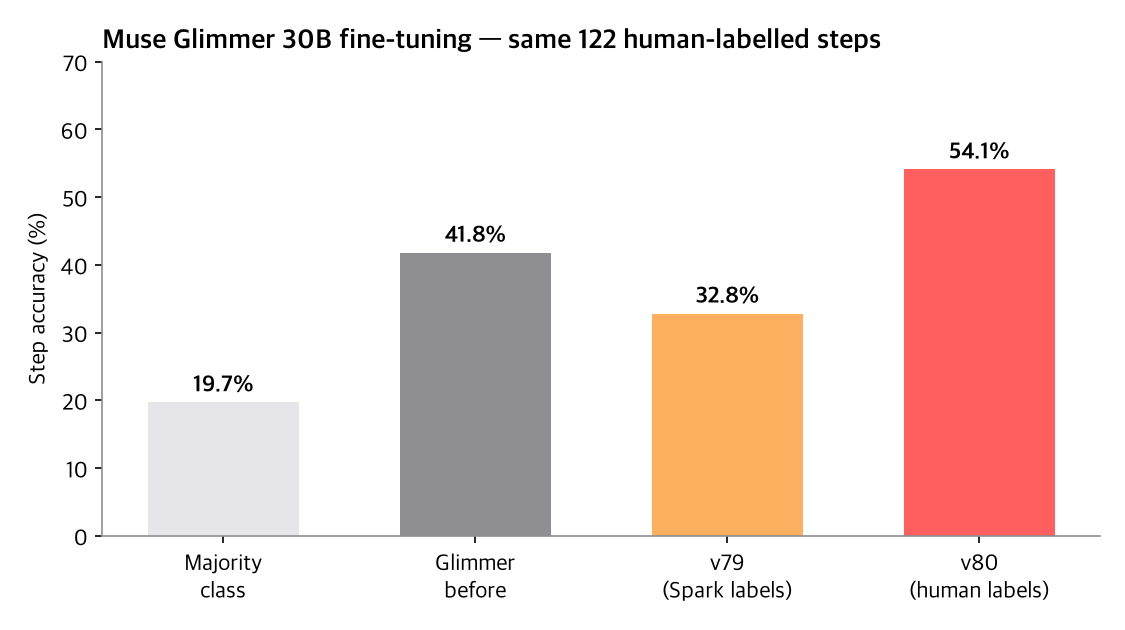
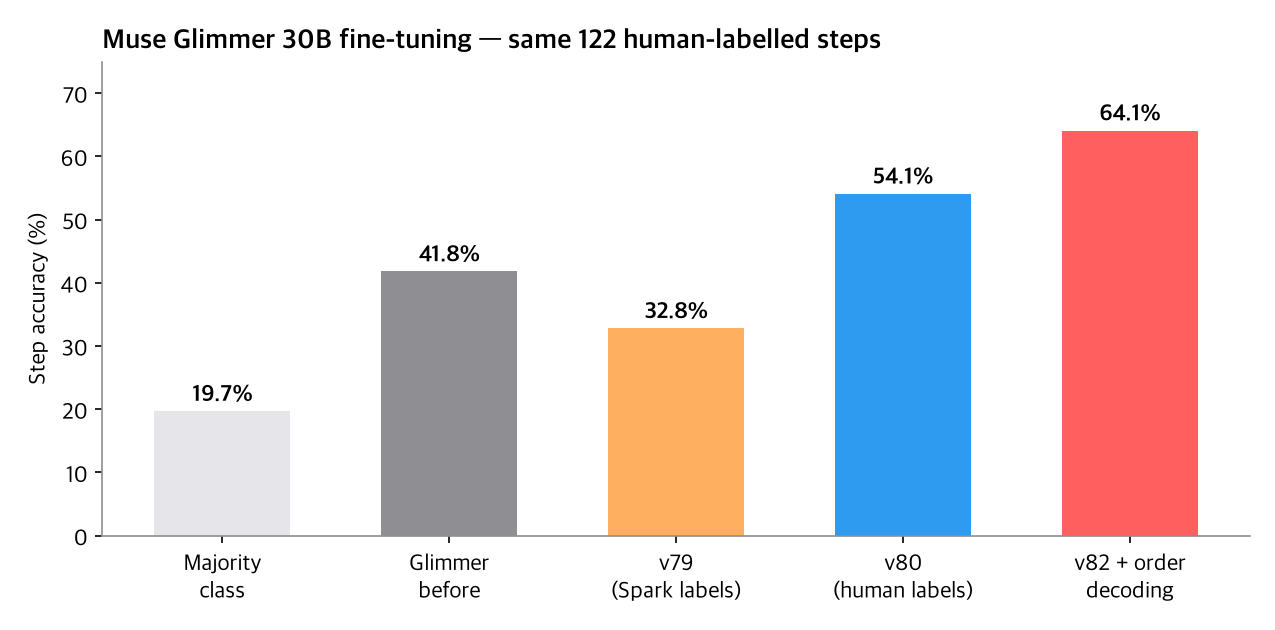
구매 기업 웹: 말로 의뢰하면 Muse Spark 답이 온 뒤에 미션이 카드로 생김 (새 카드는 잠깐 강조). 기다리는 동안 말풍선에 돌아가는 표시와 흐른 초, 미션 자리에 빈 카드 — 화면이 멈춘 것처럼 보이던 것. 모델 없이 맞춘 초안은 Spark 가 실패할 때만 보여 줌. 성능: Glimmer v82 + 미션별 순서 디코딩 64.1% (범위 60.7–67.2%, docs/label_eval.md) 를 README 5개 언어 표·그래프(docs/perf/glimmer.*)와 운영자 성능 탭에 더함

Changed region(s): [[0.0, 0.0302, 0.9644, 0.9651], [0.8089, 0.8746, 0.9333, 0.9651]]

diff --git a/web/index.html b/web/index.html
@@ -85,6 +85,17 @@
   .chat textarea { flex: 1; resize: vertical; }
   .mis { border: 1px solid var(--line); border-radius: 14px; padding: 12px 14px; margin-top: 10px; }
   .mis .prims { margin-top: 6px; }
+  /* 미션 카드: Muse Spark 답이 온 뒤에 생기고, 새로 생긴 카드는 잠깐 강조 */
+  .mcards { display: grid; grid-template-columns: repeat(auto-fill, minmax(230px, 1fr)); gap: 10px; margin-top: 10px; }
+  .mcards .mis { margin-top: 0; background: #fff; box-shadow: 0 2px 10px rgba(0,0,0,.05); }
+  .mcards .mis .num { display: inline-grid; place-items: center; width: 22px; height: 22px; border-radius: 50%; background: var(--primary-soft); color: var(--primary-dark); font-size: 12px; font-weight: 800; margin-right: 6px; }
+  .mcards .mis.new { animation: mpop .55s cubic-bezier(.2,.9,.3,1.3) both, mglow 2.6s ease-out both; }
+  @keyframes mpop { from { opacity: 0; transform: translateY(14px) scale(.96); } to { opacity: 1; transform: none; } }
+  @keyframes mglow { 0%, 45% { border-color: var(--primary); box-shadow: 0 0 0 4px var(--primary-soft); } 100% { border-color: var(--line); } }
+  .skel { height: 92px; border-radius: 14px; background: linear-gradient(90deg, var(--bg) 25%, #fff 50%, var(--bg) 75%); background-size: 300% 100%; animation: shimmer 1.2s linear infinite; border: 1px solid var(--line); }
+  @keyframes shimmer { from { background-position: 100% 0; } to { background-position: -200% 0; } }
+  .spin { display: inline-block; width: 14px; height: 14px; border: 2px solid var(--primary-soft); border-top-color: var(--primary); border-radius: 50%; animation: spin .8s linear infinite; vertical-align: -2px; margin-right: 8px; }
+  @keyframes spin { to { transform: rotate(360deg); } }
   .tags { display: flex; flex-wrap: wrap; gap: 6px; margin-top: 8px; }
   .tags span { font-size: 12px; background: var(--bg); border: 1px solid var(--line); border-radius: 99px; padding: 3px 10px; }
   @media (max-width: 960px) { .ask { grid-template-columns: 1fr; } }
@@ -791,21 +802,27 @@ const post = (u, body) => fetch(u, {method: "POST", headers: {"Content-Type": "a
 $("#askBtn").onclick = async () => {
   const tx = $("#askText").value.trim(); if (!tx) return;
   $("#askText").value = ""; CHAT.push({role: "user", content: tx}); bubble(tx, true);
-  const my = ++SEQ;
-  const wait = bubble(t("chat.matching"), false);
-  try {                                  // ① 바로 (모델 없이)
+  const my = ++SEQ, t0 = Date.now();
+  const wait = bubble("", false);
+  // 기다리는 동안: 말풍선에 돌아가는 표시 + 흐른 초, 미션 자리에 빈 카드 (멈춘 화면처럼 보이지 않게)
+  const tick = () => { wait.innerHTML = `<span class="spin"></span>${esc(t("chat.designing"))} ${Math.round((Date.now() - t0) / 1000)}s`; };
+  tick(); const timer = setInterval(tick, 500);
+  $("#planBox").innerHTML = `<h3 style="margin-top:0"><span class="spin"></span>${esc(t("chat.designing"))}</h3><div class="mcards"><div class="skel"></div><div class="skel"></div><div class="skel"></div><div class="skel"></div></div>`;
+  let draft = null;
+  const done = () => clearInterval(timer);
+  try {                                  // ① 바로 (모델 없이) — Muse Spark 가 실패할 때만 보여 줄 초안
     const r = await post("/api/market/request/instant", {messages: CHAT, lang: LANG});
-    if (r.ok) { const j = await r.json(); if (my === SEQ) { PLAN = j.plan; CHOICE = j.choice; showPlan(); }
-      wait.textContent = (j.plan.missions.length ? t("chat.draft") : t("chat.designing")); }
+    if (r.ok) draft = await r.json();
   } catch (e) {}
-  try {                                  // ② Muse Spark (약 10초)
+  try {                                  // ② Muse Spark (약 10초) — 답이 오면 미션 카드가 생긴다
     const r = await post("/api/market/request/chat", {messages: CHAT, lang: LANG});
-    const j = await r.json();
-    if (!r.ok) { wait.textContent = j.detail || t("chat.retry"); return; }
+    const j = await r.json(); done();
+    if (!r.ok) { wait.textContent = j.detail || t("chat.retry"); if (draft && my === SEQ) { PLAN = draft.plan; CHOICE = draft.choice; showPlan(); } return; }
     const q = (j.plan.questions || []).length ? "\n\n" + j.plan.questions.map(x => "· " + x).join("\n") : "";
     wait.textContent = j.reply + q; CHAT.push({role: "assistant", content: j.reply + q});
-    if (my === SEQ) { PLAN = j.plan; CHOICE = j.choice; showPlan(); }
-  } catch (e) { wait.textContent = PLAN ? t("chat.lostDraft") : t("chat.lost"); }
+    if (my === SEQ) { PLAN = j.plan; CHOICE = j.choice; showPlan(true); }
+  } catch (e) { done(); wait.textContent = draft ? t("chat.lostDraft") : t("chat.lost");
+    if (draft && my === SEQ) { PLAN = draft.plan; CHOICE = draft.choice; showPlan(); } }
 };
 $("#askText").onkeydown = e => { if (e.key === "Enter" && !e.shiftKey && !e.isComposing) { e.preventDefault(); $("#askBtn").click(); } };
 const AGES = ["19~29세", "30대", "40대", "50대", "60대 이상"];   // API 값 (보낼 때는 그대로)
@@ -817,7 +834,7 @@ function planMission(m) {
   if (c) return {...m, title: c.title, guide: c.guide};
   return {...m, title: hasHangul(m.title) && m.title_en ? m.title_en : m.title};
 }
-function showPlan() {
+function showPlan(fresh) {
   const p = PLAN, c = CHOICE; if (!p || !c) return;
   if (!PICK || !c.options[PICK]) PICK = c.recommended;
   const ages = p.eligibility.age_bands.length === AGES.length ? t("age.any") : p.eligibility.age_bands.map(ageLabel).join(" · ");
@@ -840,10 +857,10 @@ function showPlan() {
     ${p.domain || p.robot_use ? `<div class="note">${esc(p.domain)} · ${esc(p.robot_use)}</div>` : ""}
     <div class="tags"><span>${esc(ages)}</span><span>${esc(t("gen." + p.eligibility.gender) === "gen." + p.eligibility.gender ? "" : t("gen." + p.eligibility.gender))}</span>${sens.map(x => `<span>${esc(x)}</span>`).join("")}
       ${c.rarity !== "normal" ? `<span style="background:var(--accent-soft)">${esc(t("rare." + c.rarity))}${c.rare_reason ? " · " + esc(c.rare_reason.replace(/60대 이상|19~29세|30대|40대|50대/g, ageLabel)) : ""} ×${c.rarity_mult}</span>` : ""}</div>
-    ${ms.map(m => `<div class="mis"><b>${esc(m.title)}</b>${m.existing || m.id ? ` <span class="note">${esc(t("stockMission"))}</span>` : ""}<div class="note">${esc(m.guide)}</div>
+    <div class="mcards">${ms.map((m, i) => `<div class="mis${fresh ? " new" : ""}" style="animation-delay:${fresh ? i * 0.18 : 0}s"><span class="num">${i + 1}</span><b>${esc(m.title)}</b>${m.existing || m.id ? ` <span class="note">${esc(t("stockMission"))}</span>` : ""}<div class="note">${esc(m.guide)}</div>
       ${m.primitives.length ? `<div class="prims">${m.primitives.map(esc).join(" → ")}</div>` : ""}
-      ${(m.situations || []).length && (LANG === "ko" || !m.situations.some(hasHangul)) ? `<div class="tags">${m.situations.slice(0, 6).map(x => `<span>${esc(x)}</span>`).join("")}</div>` : ""}</div>`).join("")
-      || `<div class="note">${esc(t("noMatch"))}</div>`}
+      ${(m.situations || []).length && (LANG === "ko" || !m.situations.some(hasHangul)) ? `<div class="tags">${m.situations.slice(0, 4).map(x => `<span>${esc(x)}</span>`).join("")}</div>` : ""}</div>`).join("")
+      || `<div class="note">${esc(t("noMatch"))}</div>`}</div>
     <h3 style="margin:16px 0 6px">${esc(t("how"))}</h3>
     ${c.budget_krw ? `<div class="note">${esc(t("budget", {b: won(c.budget_krw)}))}</div>` : ""}
     <div class="note" style="margin-bottom:6px">${c.why && ("why." + c.why) in I18N.ko ? esc(t("why." + c.why)) : ""}</div>

diff --git a/web/admin.html b/web/admin.html
@@ -377,7 +377,7 @@ function renderPerf() {
   const kp = [
     [tx("라벨 장면 정확도", "Label frame accuracy"), ep.base && ep.ensemble ? `${pct(ep.base.frame_acc)} → ${pct(ep.ensemble.frame_acc)}` : "-", tx("사람 정답 · EPIC 새 8구간", "vs human truth · EPIC held-out")],
     [tx("경계 오차", "Boundary error"), ep.base ? `${ep.base.boundary_ms_median} → ${(ep["chunk20_slow+pick"] || {}).boundary_ms_median} ms` : "-", tx("중앙값", "median")],
-    ["Muse Glimmer 30B", g.length ? `${pct(g[1])} → ${pct(g[3])}` : "-", tx("학습 전 → v80 (사람 정답 학습)", "base → v80 fine-tuned on human labels")],
+    ["Muse Glimmer 30B", g.length ? `${pct(g[1])} → ${pct(g[g.length - 1])}` : "-", g.length > 4 ? tx("학습 전 → v82 + 순서 디코딩 (사람 정답 학습)", "base → v82 + order decoding (human labels)") : tx("학습 전 → v80 (사람 정답 학습)", "base → v80 fine-tuned on human labels")],
     [tx("두 모델 일치 (최근 5편)", "Spark 1.3 ↔ Open (last 5)"), pct(S.agreement_last5), tx(`처음 5편 ${pct(S.agreement_first5)} · 전체 ${pct(S.agreement_all)}`, `first 5 ${pct(S.agreement_first5)} · all ${pct(S.agreement_all)}`)],
   ];
   set("perf-kpis", kp.map(([k, b, e]) => `<div class="card kpi"><span>${k}</span><b>${b}</b><em>${e}</em></div>`).join(""));
@@ -398,7 +398,8 @@ function renderPerf() {
   set("perf-m-glim", tx("같은 평가 122단계 (사람 정답, 학습에 안 쓴 녹화 8편). Fireworks LoRA r16.", "Same 122 steps (human labels, 8 held-out recordings). Fireworks LoRA r16."));
   const GT = P.glimmer.trainings || [];
   set("perf-glim", (g.length ? hbars([[tx("가장 많은 동작만", "majority class"), +(100 * g[0]).toFixed(1), "#E5E5EA"], [tx("학습 전", "base (no training)"), +(100 * g[1]).toFixed(1), "#8E8E93"],
-      [tx("v79 · Spark 라벨로", "v79 · trained on Spark labels"), +(100 * g[2]).toFixed(1), "#FFAF5F"], [tx("v80 · 사람 정답으로", "v80 · trained on human labels"), +(100 * g[3]).toFixed(1), "#FF5F5F"]], 70, "%") : "")
+      [tx("v79 · Spark 라벨로", "v79 · trained on Spark labels"), +(100 * g[2]).toFixed(1), "#FFAF5F"], [tx("v80 · 사람 정답으로", "v80 · trained on human labels"), +(100 * g[3]).toFixed(1), g.length > 4 ? "#34C778" : "#FF5F5F"]]
+      .concat(g.length > 4 ? [[tx("v82 · + 미션별 순서 디코딩", "v82 · + per-mission order decoding"), +(100 * g[4]).toFixed(1), "#FF5F5F"]] : []), 75, "%") : "")
     + `<table style="margin-top:8px;font-size:12px"><tr><th>${tx("학습", "Run")}</th><th>${tx("데이터", "Data")}</th><th>epoch</th><th>${tx("상태", "State")}</th><th>${tx("끝", "Finished")}</th></tr>
       ${GT.slice().reverse().map(t => { const d = (P.glimmer.datasets || []).find(x => x.version === t.dataset) || {};
         return `<tr><td>${esc(String(t.output_model || "").split("/").pop())}</td><td>v${t.dataset} · ${d.train_steps ?? "-"} ${tx("단계", "steps")}</td><td>${t.epochs}</td>

diff --git a/scripts/perf_report.py b/scripts/perf_report.py
@@ -44,7 +44,7 @@ T = {"en": {"acc": "Frame accuracy (%)", "bnd": "Boundary error, median (ms)",
             "conf": "Where labels go wrong (0.1 s frames, row = human truth)", "first": "First: 60 s in one call",
             "now": "Now: 5-run fusion", "pred": "Muse Spark label", "truth": "Human truth",
             "g": "Muse Glimmer 30B fine-tuning — same 122 human-labelled steps",
-            "gacc": "Step accuracy (%)", "gl": ["Majority\nclass", "Glimmer\nbefore", "v79\n(Spark labels)", "v80\n(human labels)"],
+            "gacc": "Step accuracy (%)", "gl": ["Majority\nclass", "Glimmer\nbefore", "v79\n(Spark labels)", "v80\n(human labels)", "v82 + order\ndecoding"],
             "agree": "Spark 1.3 ↔ Spark Open agreement per clip", "clip": "Clip (processing order)", "last5": "last-5 mean",
             "time": "Processing time per clip (s)", "reid": "Frames still 'same person' after face swap (%)",
             "mon": "Live service monitoring (operator page shows the same)", "warn": "alert"},
@@ -53,7 +53,7 @@ T = {"en": {"acc": "Frame accuracy (%)", "bnd": "Boundary error, median (ms)",
             "conf": "어디서 틀리나 (0.1초 장면, 행 = 사람 정답)", "first": "처음: 60초 한 번에",
             "now": "지금: 다섯 벌 합치기", "pred": "Muse Spark 라벨", "truth": "사람 정답",
             "g": "Muse Glimmer 30B 학습 — 같은 평가 122단계 (사람 정답)",
-            "gacc": "단계 정확도 (%)", "gl": ["가장 많은\n동작만", "학습 전", "v79\n(Spark 라벨)", "v80\n(사람 정답)"],
+            "gacc": "단계 정확도 (%)", "gl": ["가장 많은\n동작만", "학습 전", "v79\n(Spark 라벨)", "v80\n(사람 정답)", "v82 + 순서\n디코딩"],
             "agree": "녹화마다 Spark 1.3 ↔ Spark Open 일치율", "clip": "녹화 (처리 순서)", "last5": "최근 5편 평균",
             "time": "녹화 하나 처리 시간 (초)", "reid": "치환 뒤에도 '같은 사람'인 얼굴 장면 (%)",
             "mon": "서비스 모니터링 (운영자 화면과 같은 값)", "warn": "경고"}}
@@ -107,7 +107,8 @@ def glimmer() -> list:
     reg = json.loads((ROOT / "data/evolve/registry.json").read_text())
     pre = [e for e in reg["evals"] if e.get("dataset") == 80 and e.get("steps") == 122]
     base, before = (pre[-1]["baseline_accuracy"], pre[-1]["accuracy"]) if pre else (0.197, 0.418)
-    return [base, before, 0.328, 0.541]
+    # v82e3 + 미션별 순서 디코딩: 순서 무게 다섯 개 평균 64.1% (범위 60.7–67.2%, docs/label_eval.md 'v81–v83')
+    return [base, before, 0.328, 0.541, 0.641]
 
 
 def plot_all(b: dict, live: dict, lang: str) -> None:
@@ -154,11 +155,11 @@ def plot_all(b: dict, live: dict, lang: str) -> None:
 
     # ③ Glimmer
     g = b["glimmer"]
-    fig, ax = plt.subplots(figsize=(7.5, 4.2))
-    ax.bar(range(4), [100 * x for x in g], color=[LINE, MUTED, WARN, ACC], width=.6)
+    fig, ax = plt.subplots(figsize=(8.5, 4.2))
+    ax.bar(range(len(g)), [100 * x for x in g], color=[LINE, MUTED, WARN, OK, ACC][:len(g)], width=.6)
     for i, x in enumerate(g):
         ax.text(i, 100 * x + 1.5, f"{100 * x:.1f}%", ha="center", fontweight="bold")
-    ax.set_xticks(range(4), t["gl"]); ax.set_ylim(0, 70); ax.set_ylabel(t["gacc"]); ax.set_title(t["g"], loc="left")
+    ax.set_xticks(range(len(g)), t["gl"][:len(g)]); ax.set_ylim(0, 75); ax.set_ylabel(t["gacc"]); ax.set_title(t["g"], loc="left")
     fig.tight_layout(); fig.savefig(OUT / f"glimmer.{lang}.png"); plt.close(fig)
 
     # ④ 서비스 모니터링 세 줄

diff --git a/README.ko.md b/README.ko.md
@@ -44,7 +44,7 @@ API 호출마다 비용을 장부(`data/api_ledger.jsonl`)에 적고, 한도를 
 |---|---|---|
 | 단계 라벨 장면 정확도 (Muse Spark 1.3) | **35.6% → 54.3%** | EPIC-KITCHENS-100 새 8구간, 사람 정답 271단계 |
 | 단계 경계 오차 (중앙값) | **430 → 182ms** | 같음 |
-| Muse Glimmer 30B 단계 정확도 (LoRA, Fireworks) | **41.8% → 54.1%** (v80, 사람 정답으로 학습 · Spark 라벨로 학습한 v79 는 32.8%) | 학습에 안 쓴 녹화 8편의 사람 정답 122단계 |
+| Muse Glimmer 30B 단계 정확도 (LoRA, Fireworks) | **41.8% → 54.1% → 64.1%** (v80 사람 정답으로 학습 · v82 + 미션별 순서 디코딩, 범위 60.7–67.2% · Spark 라벨로 학습한 v79 는 32.8%) | 학습에 안 쓴 녹화 8편의 사람 정답 122단계 |
 | 워치 ↔ 영상 시간 오차 | **24.7 → 3.7ms** (기준 10ms) | 폰 + 워치 녹화 37편 |
 | 녹화 하나 얼굴 치환 시간 | **636 → 84초** (7.5배) | `docs/privacy_eval.md` |
 | SAM 3.1 비용, 녹화 4편 | **$2.92 → $0.27** (−91%) | 실제 녹화 4편 |

diff --git a/README.md b/README.md
@@ -44,7 +44,7 @@ The operator page has a **Performance** tab with the same charts plus live monit
 |---|---|---|
 | Step-label frame accuracy (Muse Spark 1.3) | **35.6% → 54.3%** | EPIC-KITCHENS-100, 8 held-out clips, 271 human-labelled steps |
 | Step boundary error (median) | **430 → 182 ms** | same |
-| Muse Glimmer 30B step accuracy (LoRA, Fireworks) | **41.8% → 54.1%** (v80, trained on our human labels; v79 trained on Spark labels: 32.8%) | 122 human-labelled steps from 8 held-out recordings |
+| Muse Glimmer 30B step accuracy (LoRA, Fireworks) | **41.8% → 54.1% → 64.1%** (v80 trained on our human labels; v82 + per-mission order decoding, range 60.7–67.2%; v79 trained on Spark labels: 32.8%) | 122 human-labelled steps from 8 held-out recordings |
 | Watch ↔ video sync error | **24.7 → 3.7 ms** (target < 10 ms) | 37 phone + watch recordings |
 | Face swap time per recording | **636 → 84 s** (7.5×) | `docs/privacy_eval.md` |
 | SAM 3.1 cost, 4 recordings | **$2.92 → $0.27** (−91%) | 4 real recordings |

diff --git a/README.ja.md b/README.ja.md
@@ -43,7 +43,7 @@ API を呼ぶたびに費用を `data/api_ledger.jsonl` に記録し、上限を
 |---|---|---|
 | ステップラベルのフレーム精度（Muse Spark 1.3） | **35.6% → 54.3%** | EPIC-KITCHENS-100 未使用 8 区間、人手 271 ステップ |
 | ステップ境界誤差（中央値） | **430 → 182 ms** | 同上 |
-| Muse Glimmer 30B（LoRA、Fireworks） | **41.8% → 54.1%**（v80、人手ラベルで学習） | 未使用録画 8 本の人手 122 ステップ |
+| Muse Glimmer 30B（LoRA、Fireworks） | **41.8% → 54.1% → 64.1%**（v80 は人手ラベルで学習、v82 + ミッションごとの順序デコード、範囲 60.7–67.2%） | 未使用録画 8 本の人手 122 ステップ |
 | ウォッチ ↔ 映像の同期誤差 | **24.7 → 3.7 ms**（目標 < 10 ms） | 録画 37 本 |
 | 録画 1 本の顔置換時間 | **636 → 84 秒**（7.5 倍） | `docs/privacy_eval.md` |
 | SAM 3.1 コスト、録画 4 本 | **$2.92 → $0.27**（−91%） | 実録画 4 本 |

diff --git a/README.es.md b/README.es.md
@@ -43,7 +43,7 @@ Cada número se mide contra **etiquetas humanas** o una referencia física y se 
 |---|---|---|
 | Precisión por fotograma de etiquetas (Muse Spark 1.3) | **35,6% → 54,3%** | EPIC-KITCHENS-100, 8 clips reservados, 271 pasos humanos |
 | Error de límite (mediana) | **430 → 182 ms** | igual |
-| Muse Glimmer 30B (LoRA, Fireworks) | **41,8% → 54,1%** (v80, entrenado con etiquetas humanas) | 122 pasos humanos, 8 grabaciones reservadas |
+| Muse Glimmer 30B (LoRA, Fireworks) | **41,8% → 54,1% → 64,1%** (v80, entrenado con etiquetas humanas; v82 + decodificación del orden por misión, rango 60,7–67,2%) | 122 pasos humanos, 8 grabaciones reservadas |
 | Sincronización reloj ↔ vídeo | **24,7 → 3,7 ms** (objetivo < 10 ms) | 37 grabaciones |
 | Cambio de cara por grabación | **636 → 84 s** (7,5×) | `docs/privacy_eval.md` |
 | Coste SAM 3.1, 4 grabaciones | **$2,92 → $0,27** (−91%) | 4 grabaciones reales |
